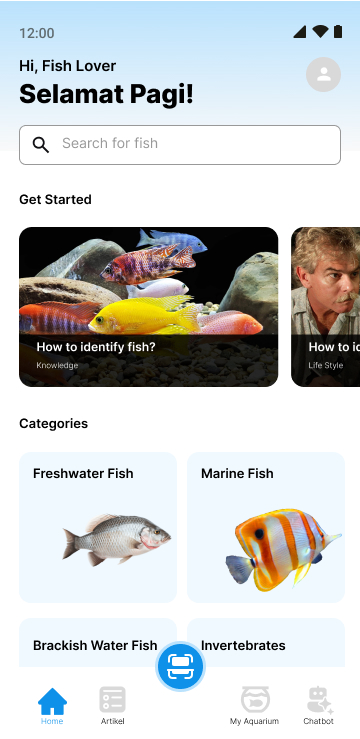
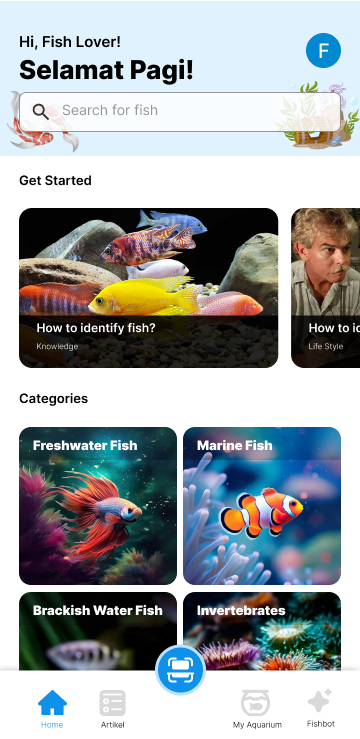
benerin screenshoot

diff --git a/resources/views/pages/landing/index.blade.php b/resources/views/pages/landing/index.blade.php
@@ -251,11 +251,13 @@
                                 src="{{'images/landing/Screenshot-5.jpg'}}" alt="Screenshot 5">
                             <img class="w-full h-full object-cover rounded-2xl"
                                 src="{{'images/landing/Screenshot-6.jpg'}}" alt="Screenshot 6">
+                                <img class="w-full h-full object-cover rounded-2xl"
+                                src="{{'images/landing/Screenshot-7.jpg'}}" alt="Screenshot 7">
                         </div>
                     </div>
 
                     <!-- Custom Dots Navigation -->
-                    <div id="customDots"
+                    <!-- <div id="customDots"
                         class="absolute top-1/2 right-[-40px] transform -translate-y-1/2 flex flex-col space-y-3 z-30">
                         <span
                             class="dot w-4 h-4 bg-gradient-to-r from-[#38ABF8] to-[#0278C7] rounded-full cursor-pointer"
@@ -275,7 +277,7 @@
                         <span
                             class="dot w-4 h-4 bg-gradient-to-r from-[#38ABF8] to-[#0278C7] rounded-full cursor-pointer"
                             data-slide="5"></span>
-                    </div>
+                    </div> -->
                 </div>
             </div>
         </div>
